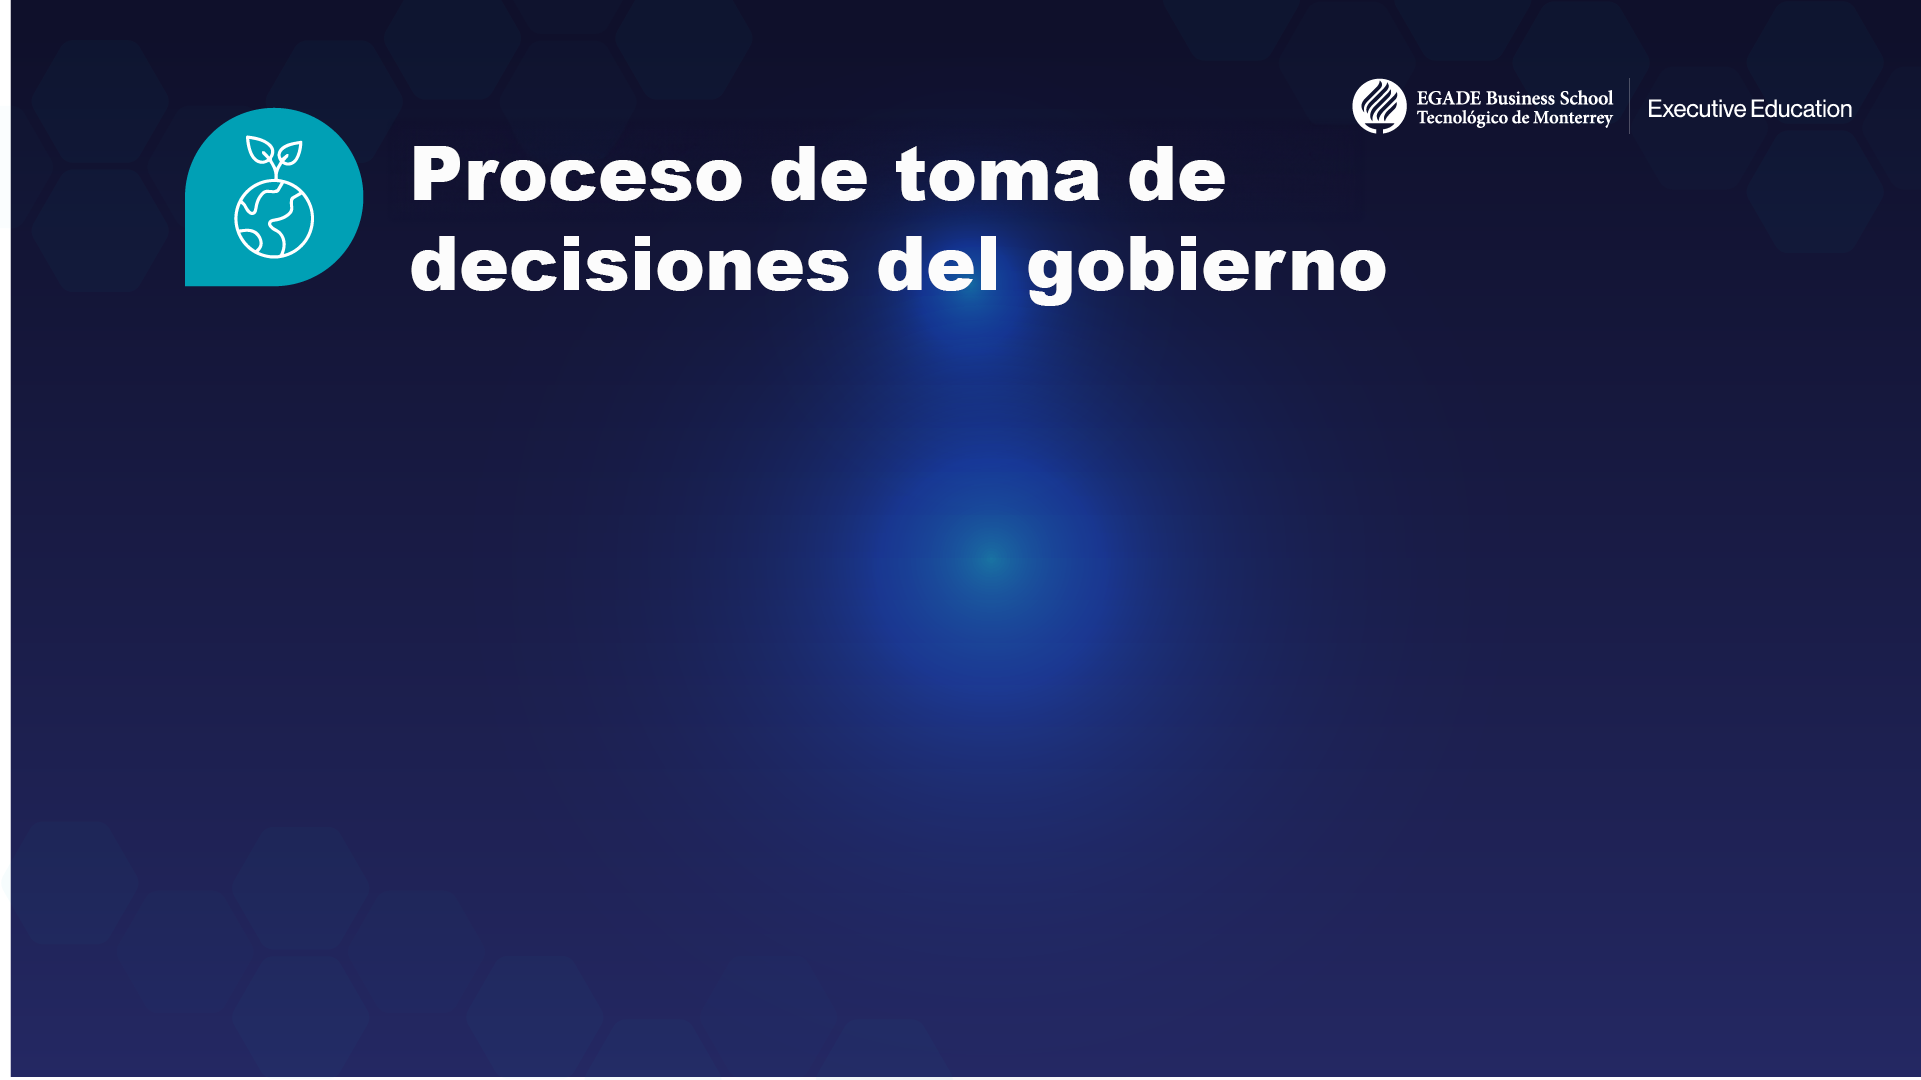
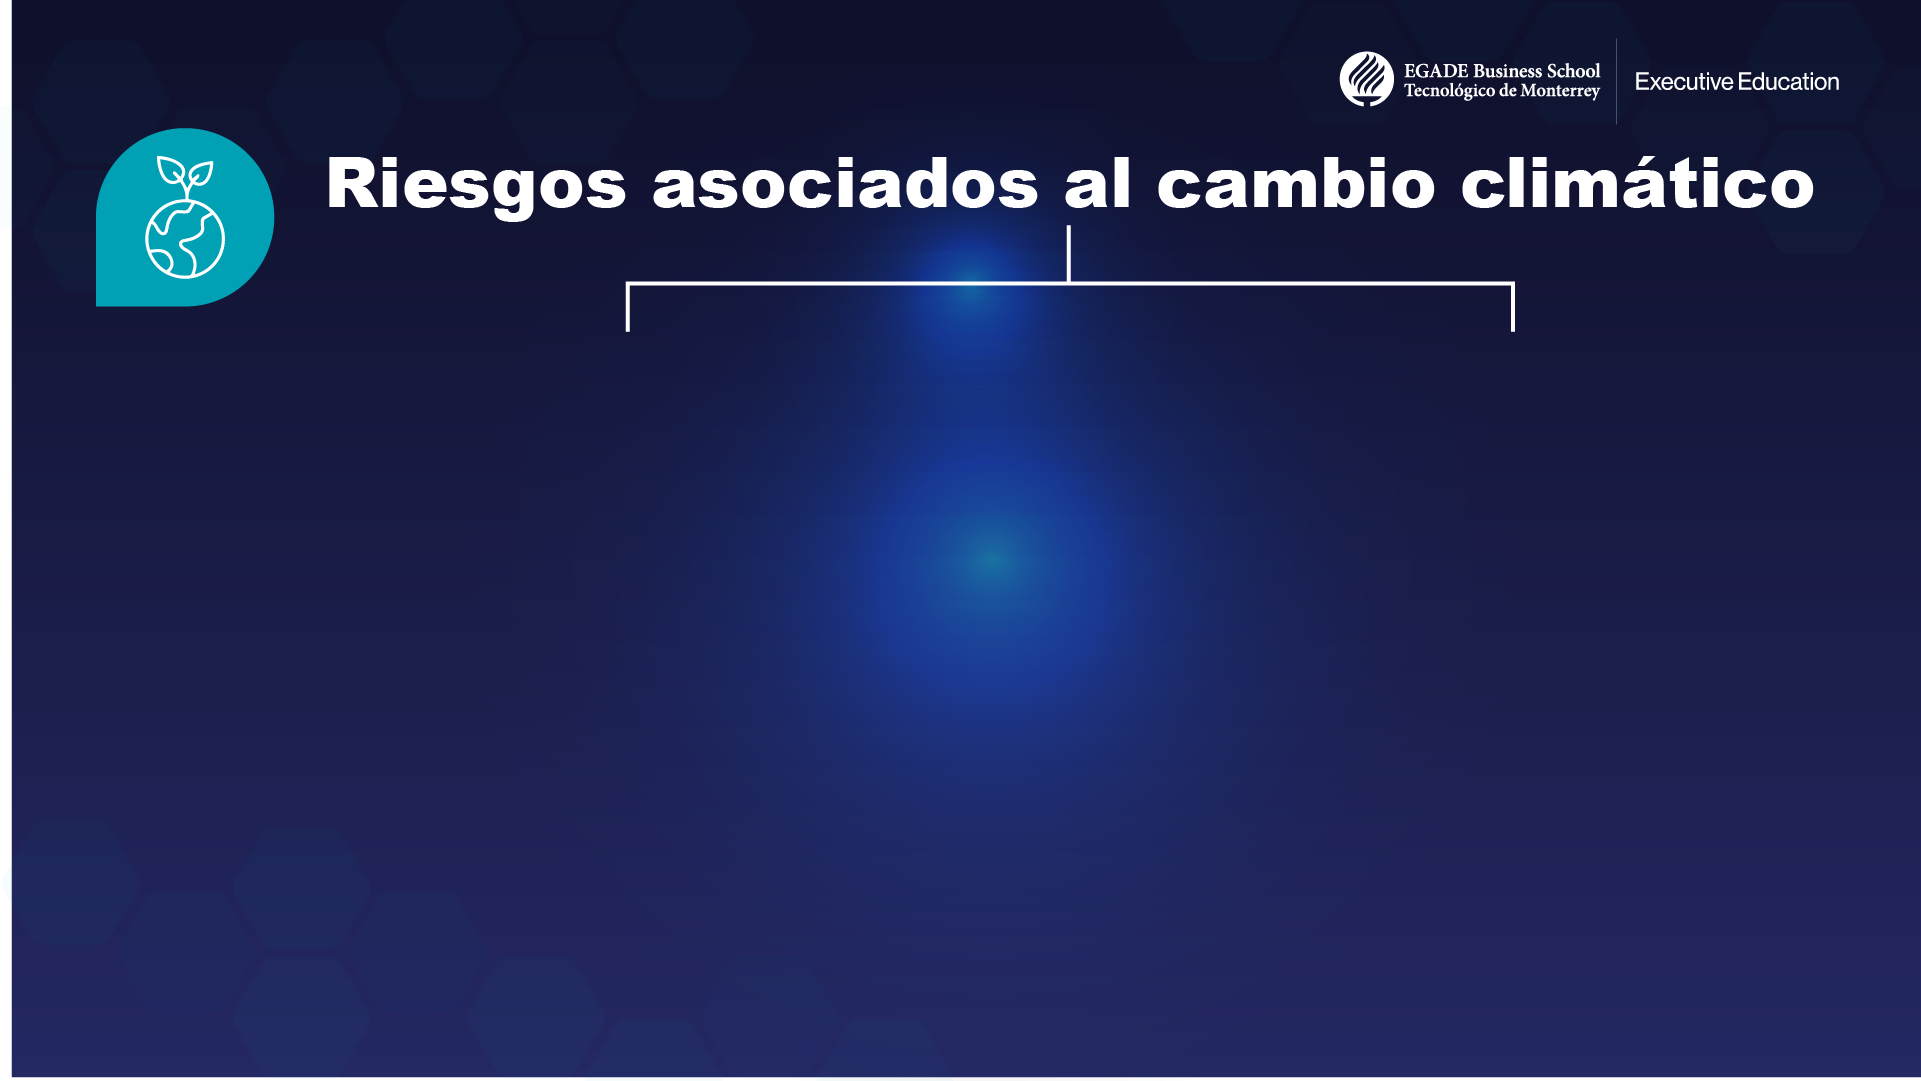
primero

Changed region(s): [[0.0312, 0.0306, 0.9682, 0.3056]]

diff --git a/style.css b/style.css
@@ -139,7 +139,7 @@ a {
   color: rgba(0, 0, 0, 0);
   border-radius: 10px;
   width: 149px;
-  height: 95px;
+  height: 48px;
   margin: 9px;
   border: solid #fff 3px;
   /* border-radius: 50%; */
@@ -179,7 +179,10 @@ a {
   line-height: 1;
   font-size: 17px;
   color: #ffffff;
-  padding-top: 5px;
+  padding-top: 11px;
+  padding-left: 2px;
+  padding-right: 2px;
+  margin-left: 266px;
 }
 
 .btn3 {
@@ -598,7 +601,7 @@ a {
   align-items: center;
   justify-content: center;
   margin-top: -258px;
-  margin-left: 54px;
+  margin-left: -128px;
   width: 90%;
   height: 45%;
   color: #ffffff;
@@ -614,10 +617,24 @@ a {
 }
 
 .texto2 {
-  margin-top: -273px;
-  margin-left: 234px;
-  width: 72%;
-  height: 15%;
+  position: absolute;
+  display: flex;
+  align-items: center;
+  justify-content: center;
+  margin-top: -258px;
+  margin-left: 90px;
+  width: 90%;
+  height: 45%;
+  color: #ffffff;
+  border-radius: 20px;
+  font-family: Arial, Helvetica, sans-serif;
+  padding-top: 0%;
+  padding-left: 16px;
+  padding-right: 16px;
+  transition: all 1s;
+  align-content: center;
+  text-align: justify;
+  line-height: 21px;
 }
 
 .texto3 {
@@ -736,6 +753,41 @@ li {
   -moz-box-shadow: 26px 23px 86px -24px rgba(0, 0, 0, 0.75);
 }
 
+.contelot2 {
+  width: 48%;
+  height: 218px;
+  background-color: rgba(255, 255, 255, 1);
+  color: #000000;
+  border-radius: 20px;
+  font-family: Arial, Helvetica, sans-serif;
+  padding-top: 0;
+  padding-left: 16px;
+  padding-right: 16px;
+  transition: all 1s;
+  align-content: center;
+  margin-left: 400px;
+  /* text-align: justify; */
+  line-height: 21px;
+  box-shadow: 26px 23px 86px -24px rgba(0, 0, 0, 0.75);
+  -webkit-box-shadow: 26px 23px 86px -24px rgba(0, 0, 0, 0.75);
+  -moz-box-shadow: 26px 23px 86px -24px rgba(0, 0, 0, 0.75);
+}
+
 .conte-parr {
   width: 50%;
+}
+.linea{
+  position: absolute;
+  margin-top: -280px;
+  margin-left: 23px;
+  width: 3px;
+  height: 62px;
+}
+
+.linea2{
+  position: absolute;
+  margin-top: -280px;
+  margin-left: 432px;
+  width: 3px;
+  height: 62px;
 }

diff --git a/home.html b/home.html
@@ -24,15 +24,11 @@
     <div class="negro"></div>
     <div class="contep">
       <div class="princ btn1" onclick="mostrarp(1,1)" id="btn1">
-        <h2 style="color: #009eb3;">1.</h2> <p>El comité revisa y opina</p>
+         <p>De transición</p>
       </div>
 
       <div class="princ btn2" onclick="mostrarp(2,2)" id="btn2">
-        <h2 style="color: #009eb3;">2.</h2> <p>El consejo recomienda y aprueba</p>
-      </div>
-
-      <div class="princ btn1" onclick="mostrarp(3,3)" id="btn3">
-        <h2 style="color: #009eb3;">3.</h2> <p>La asamblea hace oficial</p>
+        <p>Físicos</p>
       </div>
 
     </div>
@@ -41,11 +37,13 @@
 
 
   <div class="texto1 hide align-items-center" id="text1">
+    <img class="linea" src="linea-01.png" alt="">
     <div class="contelot" id="lot1"></div>
   </div>
 
-  <div class="texto1 hide align-items-center" id="text2">
-    <div class="contelot" id="lot2"></div>
+  <div class="texto2 hide align-items-center" id="text2">
+    <img class="linea2" src="linea-01.png" alt="">
+    <div class="contelot2" id="lot2"></div>
   </div>
 
   <div class="texto1 hide align-items-center" id="text3">

diff --git a/script.js b/script.js
@@ -44,14 +44,12 @@ jQuery(window).resize(function () {
 function mostrarp(divNum,btns){
 	document.getElementById("text1").classList.add("hide");
 	document.getElementById("text2").classList.add("hide");
-	document.getElementById("text3").classList.add("hide");
 
 	
 	
 
 	document.getElementById("btn1").classList.remove("activo");
 	document.getElementById("btn2").classList.remove("activo");
-	document.getElementById("btn3").classList.remove("activo");
 	
   
 	// Show the specific div
